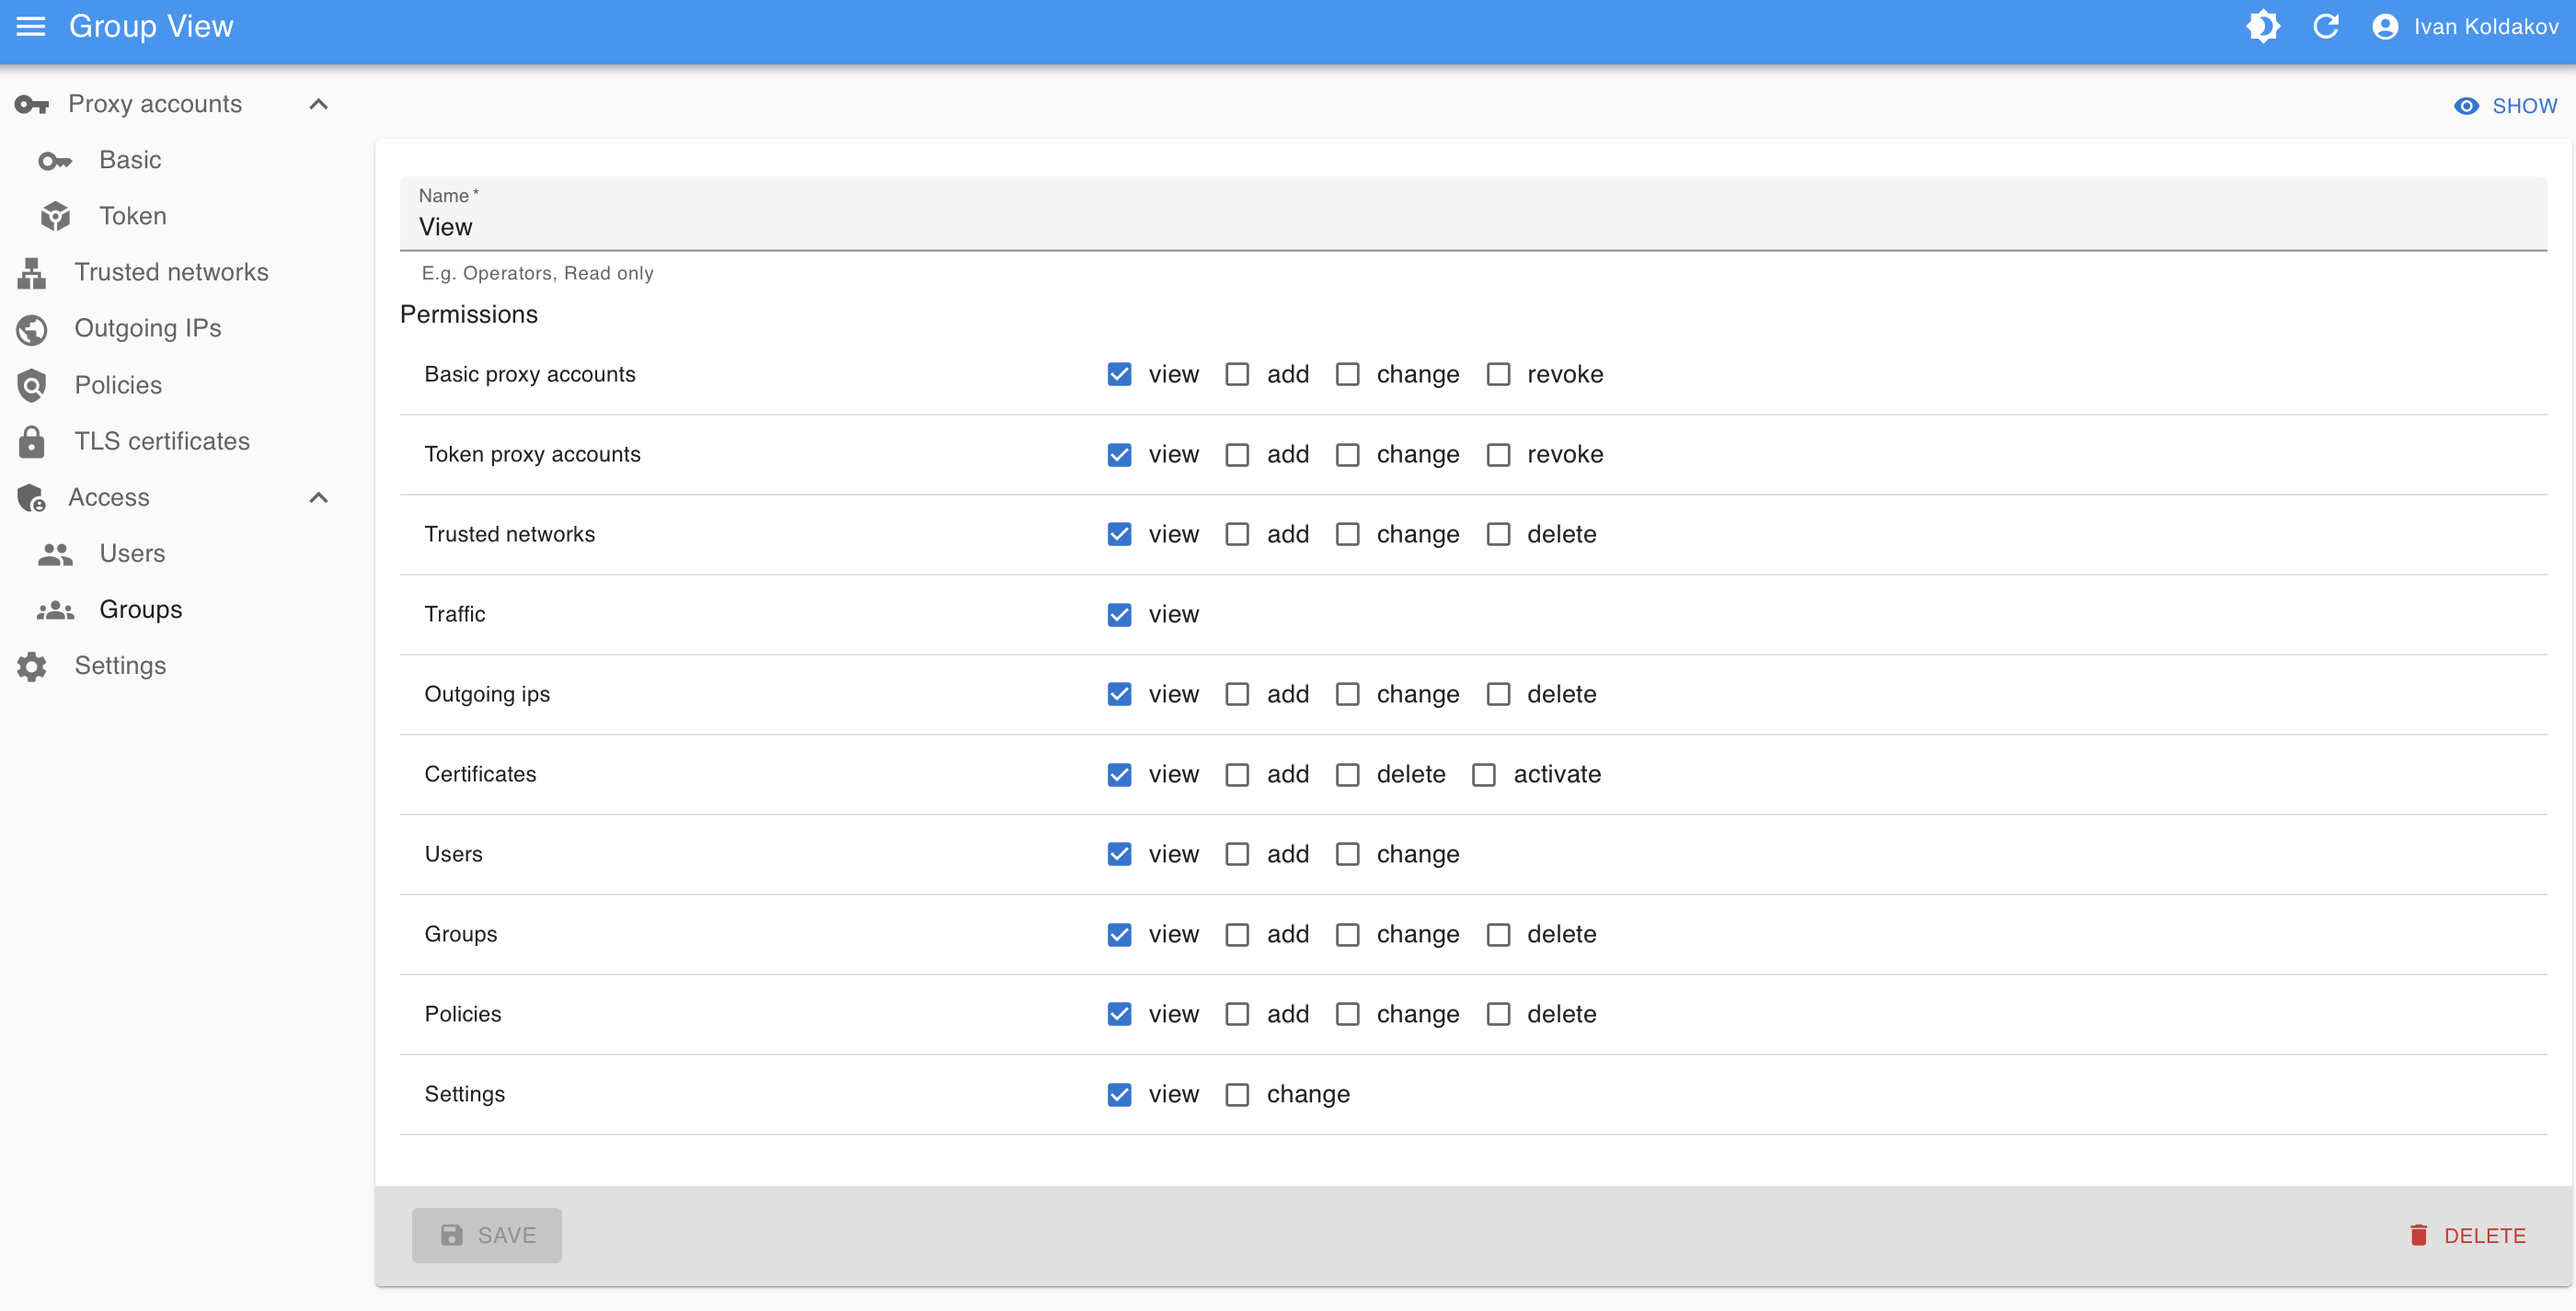
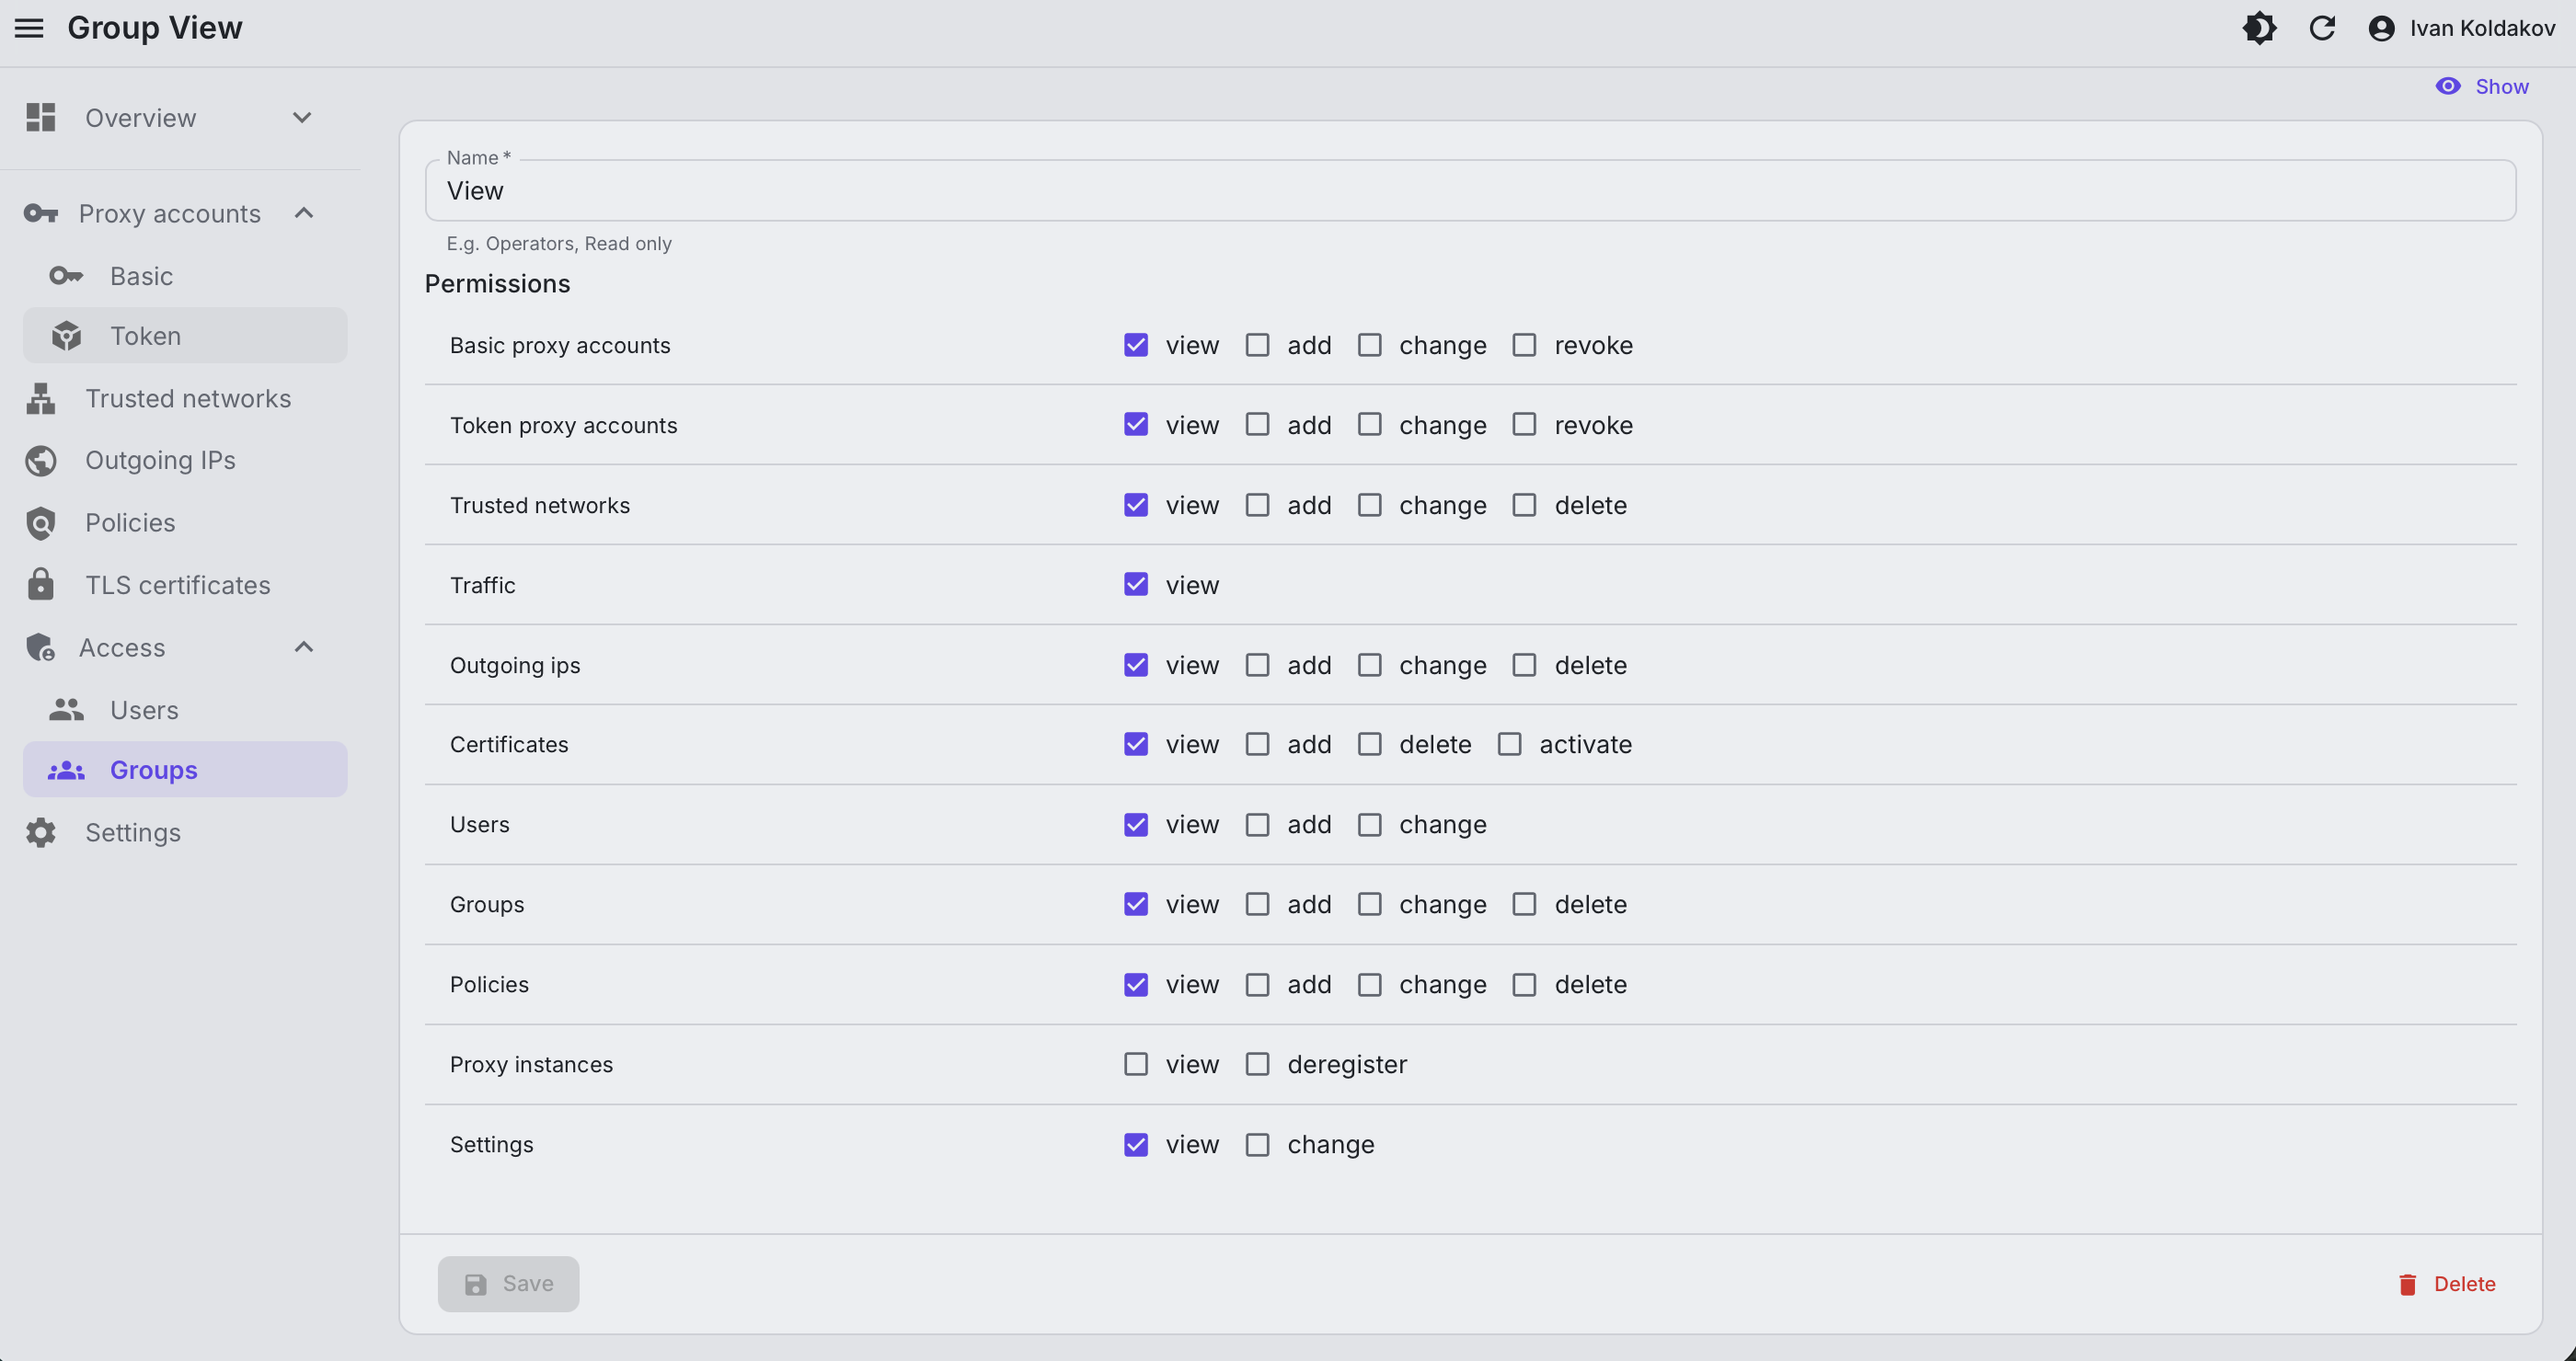
Release 0.3.0 with an upgrade guide from 0.2
Add "From 0.2 to 0.3" to docs/upgrading.md: back up before upgrading,
since 0.2 stops on the new migrations, new proxy instance permissions,
outgoing IPs in Docker bridge networking, steps for the image, compose
and source installs, upgrading without downtime and going back. Move
[Unreleased] to [0.3.0], bump the version, retake the admin screenshots
and add the Overview and Proxy instances ones to the README.

Closes #46

diff --git a/docs/upgrading.md b/docs/upgrading.md
@@ -19,6 +19,78 @@ Database migrations come with the new version and must run before it serves:
 
   Run it every time, even when the changelog mentions no schema change: with nothing new it does nothing.
 
+## From 0.2 to 0.3
+
+0.3 shows every proxy instance in the admin UI: the new Overview start page and Proxy instances. Proxies report
+themselves to the database, so the schema changes: migrations add the instances table and their permissions. They
+run on start as on every upgrade and take a second.
+
+### What to check first
+
+- **Back up the database.** Going back to 0.2 isn't a plain restart this time: 0.2's `migrate` doesn't know the
+  new migrations and stops, and the Docker image doesn't start the proxy and the API without it. See
+  [Going back](#going-back).
+- **Admins who aren't superusers.** The Overview and Proxy instances need the new `proxy_instances.view`, deregistering
+  an instance `proxy_instances.deregister`. Existing groups don't get them: add them where needed. Until then such
+  users land on the first page open to them, as before.
+- **Docker bridge networking.** Proxies report the IPs of their interfaces, in bridge networking the container's.
+  Outgoing IPs of the host show as "Not on the proxy" there: a proxy can't connect from them in bridge networking
+  anyway, run it with `--network host`, see [Ports and IPs](installation.md#ports-and-ips).
+- **Global policies.** At most `API_GLOBAL_POLICIES_MAX` of them, `32` by default. Having more keeps them working,
+  only making one more global is refused.
+
+### Docker image
+
+```bash
+docker pull ikoldakov/proxium:0.3.0
+docker stop --time 40 proxium && docker rm proxium
+docker run -d --name proxium ... ikoldakov/proxium:0.3.0
+```
+
+Use the same `-p`, `-v` and `-e` as before.
+
+### Compose
+
+Nothing new in the compose example: pin the image to `ikoldakov/proxium:0.3.0` or keep `latest`, then:
+
+```bash
+docker compose -f docker/compose.yaml pull
+docker compose -f docker/compose.yaml up -d
+```
+
+### From source
+
+```bash
+git fetch --tags && git checkout v0.3.0
+uv sync
+uv run --env-file .env proxium-manage migrate
+```
+
+and restart the proxy and the API. New variables in `.env.template` have working defaults, none has to be set.
+
+### Without downtime
+
+The 0.3 proxy starts next to the 0.2 one as in [Restart without downtime](proxy.md#restart-without-downtime), and
+they share every limit through Redis. A 0.2 proxy doesn't report itself: the Overview shows only the 0.3 ones.
+
+### Going back
+
+Restore the backup made before the upgrade and run 0.2.0: what was written since, e.g. traffic, is lost. With the
+image's own database, the backup is a copy of the volume while the container is stopped:
+
+```bash
+docker stop --time 40 proxium
+docker run --rm -v proxium:/data -v "$PWD":/backup debian tar czf /backup/proxium-0.2.tar.gz -C /data .
+```
+
+Back:
+
+```bash
+docker rm -f proxium
+docker run --rm -v proxium:/data -v "$PWD":/backup debian sh -c "find /data -mindepth 1 -delete && tar xzf /backup/proxium-0.2.tar.gz -C /data"
+docker run -d --name proxium ... ikoldakov/proxium:0.2.0
+```
+
 ## From 0.1 to 0.2
 
 0.2 shares every limit between proxy instances through Redis: connections, speed and traffic quotas. Several

diff --git a/CHANGELOG.md b/CHANGELOG.md
@@ -7,7 +7,11 @@ The format is based on [Keep a Changelog](https://keepachangelog.com/en/1.1.0/),
 
 ## [Unreleased]
 
-A new look for the admin UI: easier on the eyes, clearer to read, errors right where they happen.
+## [0.3.0] - 2026-10-28
+
+Every proxy instance in sight: the new Overview shows which ones run and which outgoing IPs they lack. And a new
+look for the admin UI: easier on the eyes, clearer to read, errors right where they happen. See
+[Upgrading](docs/upgrading.md#from-02-to-03).
 
 ### Added
 
@@ -203,7 +207,8 @@ Your own proxy service in one `docker run`: accounts, policies, outgoing IPs and
 - Admin UI over HTTP or HTTPS with `ADMIN_TLS`: Let's Encrypt, own certificate files or an internal CA.
 - Optional superuser on first start with `SUPERUSER_CREATE`.
 
-[Unreleased]: https://github.com/koldakov/proxium/compare/v0.2.0...HEAD
+[Unreleased]: https://github.com/koldakov/proxium/compare/v0.3.0...HEAD
+[0.3.0]: https://github.com/koldakov/proxium/compare/v0.2.0...v0.3.0
 [0.2.0]: https://github.com/koldakov/proxium/compare/v0.1.1...v0.2.0
 [0.1.1]: https://github.com/koldakov/proxium/compare/v0.1.0...v0.1.1
 [0.1.0]: https://github.com/koldakov/proxium/releases/tag/v0.1.0

diff --git a/README.md b/README.md
@@ -48,10 +48,12 @@ database, separate containers and running from source: see [Installation](docs/i
 
 ## Admin panel
 
-Everything is managed in the browser: accounts, networks, policies, certificates, admins.
+Everything is managed in the browser: accounts, networks, policies, certificates, admins, and every proxy in sight.
 
-| An account: outgoing IP, policies, daily traffic | A read-only group: permissions per section and action |
+| The Overview: proxies at a glance, outgoing IPs they lack | Proxy instances: status, version, IPs of each |
 |---|---|
+| ![Overview](docs/images/overview.png) | ![Proxy instances](docs/images/proxy-instances.png) |
+| **An account: outgoing IP, policies, daily traffic** | **A read-only group: permissions per section and action** |
 | ![Proxy account page](docs/images/account-page.png) | ![Group permissions](docs/images/group-permissions.png) |
 
 ## Own domains and HTTPS

diff --git a/docs/installation.md b/docs/installation.md
@@ -60,7 +60,7 @@ lock of `proxium-manage migrate`. More on how the proxy handles Redis failures i
 One image runs everything: the proxy, the API, the admin UI, PostgreSQL and Redis. State lives in one volume.
 
 The image is `ikoldakov/proxium` on Docker Hub and `ghcr.io/koldakov/proxium` on GitHub, for amd64 and arm64.
-`latest` is the last release, a version like `0.2.0` pins it, `edge` is the current `main`, not released yet.
+`latest` is the last release, a version like `0.3.0` pins it, `edge` is the current `main`, not released yet.
 
 `edge` is for trying what's coming, not for production. It's built from every commit to `main`, and a commit may
 change what an installation needs before the release that documents how to upgrade. E.g. when Redis became required,
